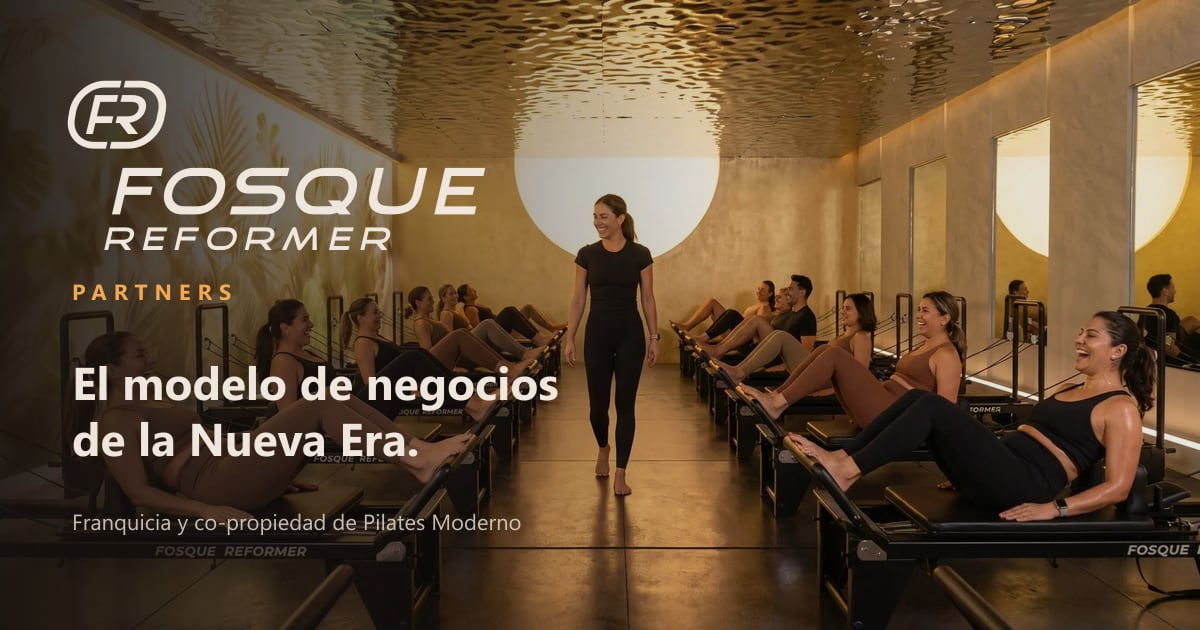
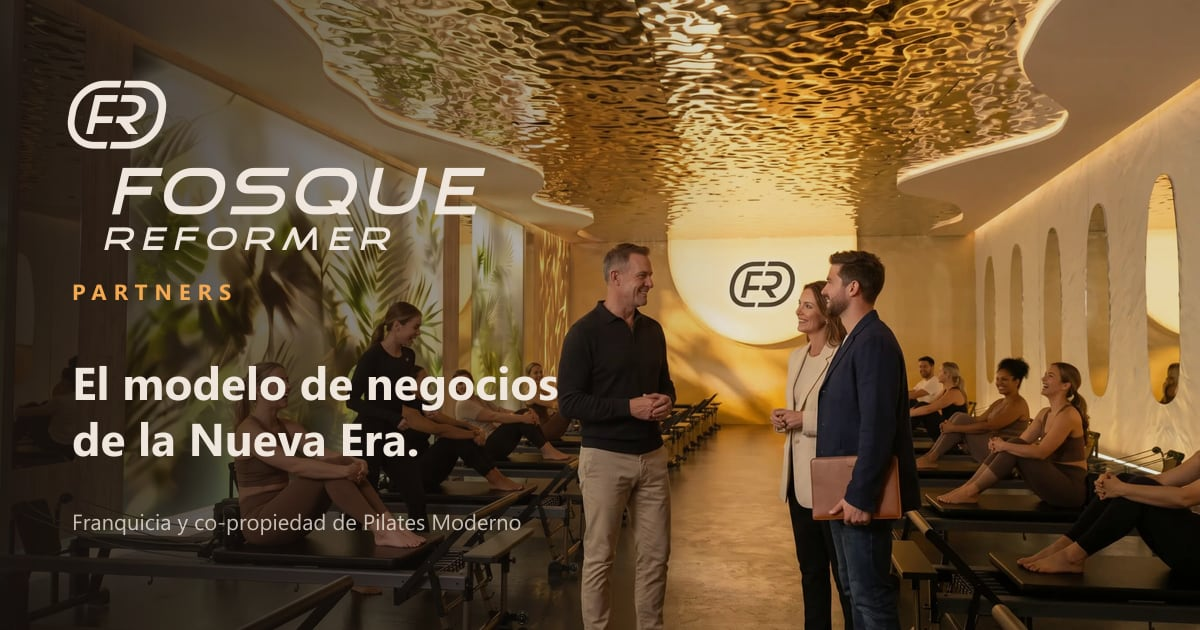
Hero: el fundador con dos socios en la sala, más de negocios
La foto de la clase con sonrisas pasa al sitio B2C. La nueva suma el logo FR en el sol
del fondo; en mobile el encuadre se corre a la derecha para que entren el logo y los socios.

diff --git a/lib/imagenes.ts b/lib/imagenes.ts
@@ -5,7 +5,7 @@
 // Las de gente son renders del estudio (Artagaveytia-Mantel) con personas sumadas con IA
 // (Nano Banana Pro, 4-oct-2026). Nadie de las fotos existe: no hace falta consentimiento.
 
-import heroClase from "@/assets/img/hero-clase.jpg";
+import heroNegocios from "@/assets/img/hero-negocios.jpg";
 import salaInstructora from "@/assets/img/sala-instructora.jpg";
 import recepcion from "@/assets/img/recepcion.jpg";
 import lounge from "@/assets/img/lounge.jpg";
@@ -19,7 +19,7 @@ import corredorArcos from "@/assets/img/corredor-arcos.jpg";
 import reformerTresCuartos from "@/assets/img/reformer-tres-cuartos.jpg";
 
 export const fotos = {
-  heroClase,
+  heroNegocios,
   salaInstructora,
   recepcion,
   lounge,

diff --git a/content/home.ts b/content/home.ts
@@ -10,7 +10,7 @@ export const hero = {
     "Te damos la bienvenida al primer ecosistema asociativo que unifica la precisión del Pilates Moderno con una plataforma comercial global. Inversión inteligente al costo operativo real, diseño industrial de autor y co-propiedad compartida.",
   ctaDossier: "Descargar Dossier Maestro",
   ctaReunion: "Agendar reunión estratégica",
-  alt: "Clase de Pilates Reformer en una sala Fosque con luz cálida: alumnas sonriendo sobre los Reformers y la instructora caminando por el pasillo central",
+  alt: "Sala Fosque con clase de Pilates Reformer: en el pasillo central, el fundador conversa con dos socios mientras los alumnos sonríen sobre los Reformers",
 };
 
 export type Cifra = {

diff --git a/components/home/Hero.tsx b/components/home/Hero.tsx
@@ -51,13 +51,13 @@ export default function Hero() {
     <section ref={raiz} className="escena relative isolate flex min-h-[100svh] items-end overflow-hidden" data-luz="noche" aria-labelledby="hero-titulo">
       <div className="absolute inset-0 -z-10" data-hero-foto>
         <Image
-          src={fotos.heroClase}
+          src={fotos.heroNegocios}
           alt={hero.alt}
           fill
           priority
           placeholder="blur"
           sizes="100vw"
-          className="object-cover object-[50%_40%]"
+          className="object-cover object-[62%_40%] md:object-[50%_40%]"
         />
       </div>
       {/* Velos: abajo para el texto, y un halo cálido que sube desde el sol de la sala */}

diff --git a/ASSETS_TODO.md b/ASSETS_TODO.md
@@ -8,7 +8,7 @@ alumnos, profes y staff con IA (Nano Banana Pro, 4-oct-2026, ~16 créditos). Ped
 
 | Archivo (`assets/img/`) | Render de base | Dónde se usa |
 |---|---|---|
-| `hero-clase.jpg` | salon-sol-reformers-negros | Hero de la home, OG |
+| `hero-negocios.jpg` | salon-reformer-sol-frontal + isotipo | Hero de la home, OG (14-oct: el fundador con dos socios en la sala; la anterior, `hero-clase`, pasó al B2C) |
 | `sala-instructora.jpg` | salon-reformer-sol-frontal | Cierre de la home, portada de /inversion |
 | `recepcion.jpg` | recepcion-cafe-molinetes | Por qué Fosque, portada de /portal |
 | `equipo.jpg` (3:4) | salon-palmeras-en-uso | Co-propiedad (home y /co-propiedad) |
@@ -20,7 +20,7 @@ alumnos, profes y staff con IA (Nano Banana Pro, 4-oct-2026, ~16 créditos). Ped
 Renders sin gente: `fachada-noche`, `salon-domo`, `corredor-arcos`, `reformer-tres-cuartos`.
 Video: `sol-loop` del B2C (ya existía; no se generó video nuevo). Pesa 1,5 MB (mobile 1 MB).
 
-Para regenerar o sumar: `assets/gen/cola.txt` (una línea por imagen: `nombre|render|proporción|escena`)
+Para regenerar o sumar: `assets/gen/cola.txt` (y `cola-negocios.txt`, las tres opciones del hero de 14-oct) (una línea por imagen: `nombre|render|proporción|escena`)
 y `bash assets/gen/lanzar.sh` (salta lo que ya bajó). Después, `npm run imagenes`.
 
 ⚠ **Los renders son de un estudio que no está construido.** Mismo pendiente que el B2C: la
